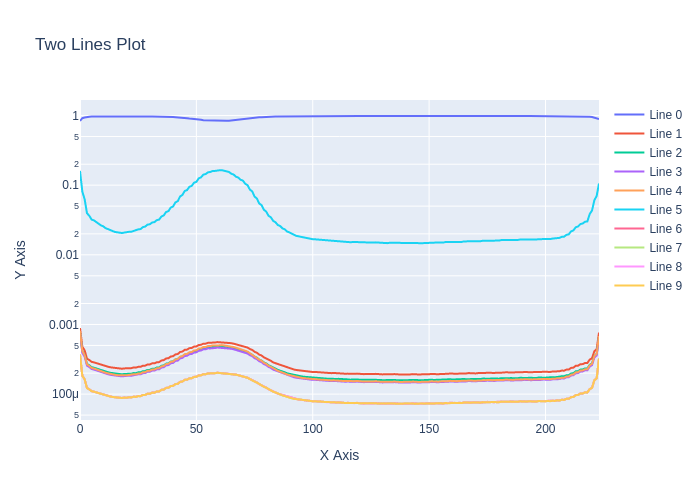
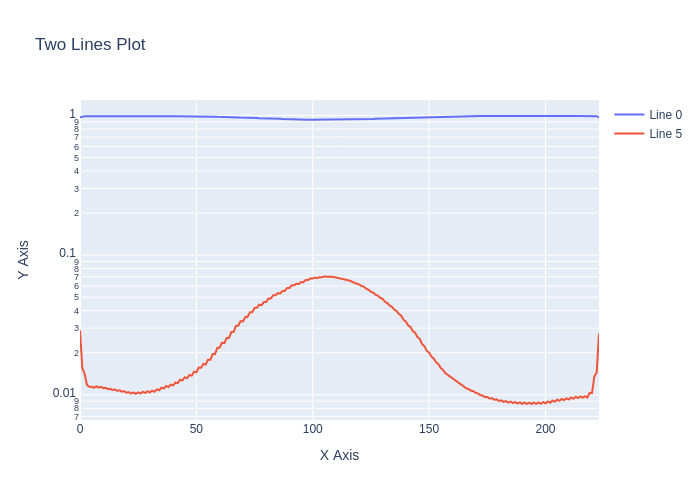
umd working

diff --git a/utils/drawing_utils.py b/utils/drawing_utils.py
@@ -121,16 +121,6 @@ def convert_mask_to_original_ids_manual(mask, original_uni_ids):
 
     out_mask = np.full(mask.shape, 0, 'float32')
 
-    print("issue shape")
-    print(mask.shape)
-    if(mask.ndim != 2):
-        print("problem")
-        print(mask.shape)
-        mask = mask[:,:,0]
-        # mask = np.squeeze(mask, axis = 0)
-        print("after convert")
-        print(mask.shape)
-    
     mh, mw = mask.shape
     for i in range(mh - 1):
         for j in range(mw - 1):
@@ -185,13 +175,11 @@ def draw_bboxes_with_labels_and_masks(img, bboxes, label_indices, probs, labels,
 
         # show corresponding masks
         if use_masks:
-            if (pred_masks.shape[0] <= index):
-              continue;
             mask = pred_masks[index]
             # Calculate max index for each position in the mask -> calculate affordance label
             mask_np = mask.numpy()
             traces = []
-            for i in range(0,10):
+            for i in [0,5]:
               line1 = mask_np[:, :, i]
 
               trace1 = go.Scatter(
@@ -218,6 +206,7 @@ def draw_bboxes_with_labels_and_masks(img, bboxes, label_indices, probs, labels,
 
             # sort before_uni_ids and reset [0, 1, 7] to [0, 1, 2]
             original_affordance_labels.sort()
+            print(np.take(aff_labels, original_affordance_labels))
             mask = reset_mask_ids(mask, original_affordance_labels)
 
             # resize mask wrt bbox size and convert to original affordance label ids
@@ -231,18 +220,6 @@ def draw_bboxes_with_labels_and_masks(img, bboxes, label_indices, probs, labels,
             # add mask values to current mask but preserving the maximum index -> 0 less importance, 10 max importance
             x1, x2, y1, y2 = int(x1.numpy()[0]), int(x2.numpy()[0]), int(y1.numpy()[0]), int(y2.numpy()[0])
             provisional_mask = curr_mask[y1:y2, x1:x2]
-            print("issue shape")
-            print(mask.shape)
-            print("provisional shape")
-            print(provisional_mask.shape)
-            if(mask.ndim != 2):
-                print("problem")
-                print(mask.shape)
-                mask = mask[:,:,0]
-                # mask = np.squeeze(mask, axis = 0)
-                print("after convert")
-                print(mask.shape)
-            
             curr_mask[y1:y2, x1:x2] = np.maximum(mask, provisional_mask)  # assign to output mask
 
             # for aff_label in affordance_labels:
@@ -258,11 +235,9 @@ def draw_bboxes_with_labels_and_masks(img, bboxes, label_indices, probs, labels,
 
     if use_masks:
         curr_mask = curr_mask.astype('uint8')
-        label_colours = label_colors_iit
+        label_colours = label_colors_iit if dataset == 'iit' else label_colors_umd
         color_curr_mask = label_colours.take(curr_mask, axis=0)
-        print("color shape")
         color_curr_mask = Image.fromarray(color_curr_mask.astype(np.uint8), mode='RGBA')
-        print(color_curr_mask.shape)
         image.paste(color_curr_mask, (0,0), color_curr_mask)
 
     plt.figure()

diff --git a/affcontext_predictor.py b/affcontext_predictor.py
@@ -146,17 +146,17 @@ if __name__ == '__main__':
 
         # Visualize results
         if cfg.VISUALIZE:
+            print("init print stating")
             print(img.shape)
-            img = tf.squeeze(tf.expand_dims(img, axis=0), axis=0)
-            pred_bboxes = tf.squeeze(tf.expand_dims(pred_bboxes, axis=0), axis=0)
-            pred_labels = tf.squeeze(tf.expand_dims(pred_labels, axis=0), axis=0)
-            pred_scores = tf.squeeze(tf.expand_dims(pred_scores, axis=0), axis=0)
-            true_bboxes = tf.squeeze(tf.expand_dims(true_bboxes, axis=0), axis=0)
-            true_labels = tf.squeeze(tf.expand_dims(true_labels, axis=0), axis=0)
+            print(pred_bboxes.shape)
+            print(pred_labels.shape)
+            print(pred_scores.shape)
 
-            true_masks = tf.squeeze(tf.expand_dims(true_masks, axis=0), axis=0)
-            mask_ids = tf.squeeze(tf.expand_dims(mask_ids, axis=0), axis=0)
-            pred_masks = tf.squeeze(tf.expand_dims(pred_masks, axis=0), axis=0)
+            print(pred_masks.shape)
+            print("before trans pred_masks")
+            pred_masks = tf.squeeze(pred_masks, axis=0)
+            print(pred_masks.shape)
+            print("init print finished")
 
             drawing_utils.draw_predictions_with_masks(img, pred_bboxes, pred_labels, pred_scores,
                                            labels, cfg.BATCH_SIZE, cfg.MASK_REG, pred_masks, cfg.AFFORDANCE_LABELS, 'umd')

diff --git a/affordancenet_predictor.py b/affordancenet_predictor.py
@@ -148,6 +148,13 @@ if __name__ == '__main__':
             pred_labels = tf.squeeze(pred_labels, axis=0)
             pred_scores = tf.squeeze(pred_scores, axis=0)
             pred_masks = tf.squeeze(pred_masks, axis=0)
+            print("init print stating")
+            print(img.shape)
+            print(pred_bboxes.shape)
+            print(pred_labels.shape)
+            print(pred_scores.shape)
+            print(pred_masks.shape)
+            print("init print finished")
 
             drawing_utils.draw_predictions_with_masks(img, pred_bboxes, pred_labels, pred_scores,
                                            labels, cfg.BATCH_SIZE, cfg.MASK_REG, pred_masks, cfg.AFFORDANCE_LABELS, 'iit')

diff --git a/config_files/config_umd_test.py b/config_files/config_umd_test.py
@@ -19,7 +19,7 @@ class ConfigUmdTest(Config):
     AFFORDANCE_LABELS = ["background", "grasp", "cut", "scoop", "contain", "pound", "support", "w-grasp"]
 
     EVALUATE = True
-    VISUALIZE = False
+    VISUALIZE = True
 
     OBJ_TO_ATTR = tf.constant([
         [0, 0, 0, 0, 0, 0, 0],
